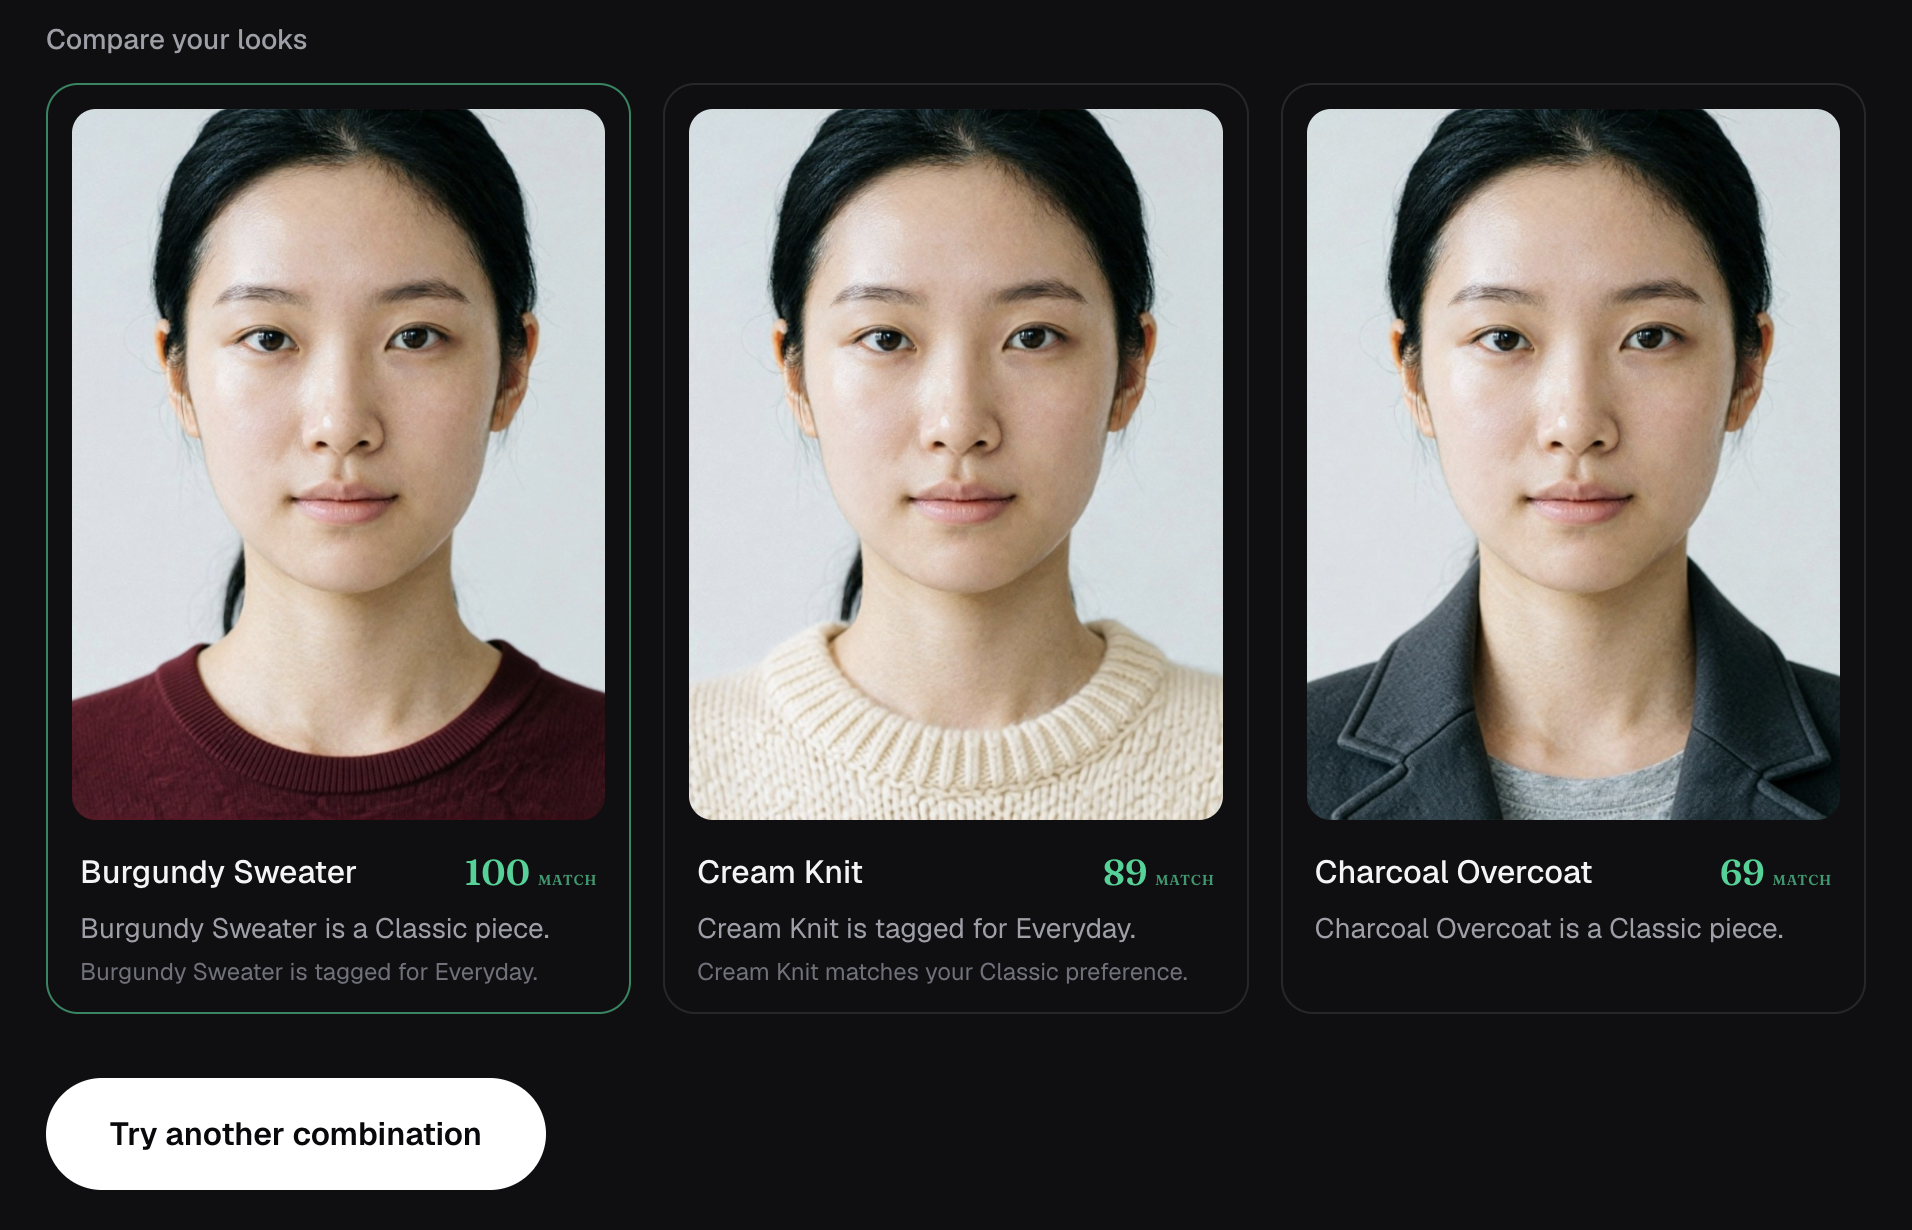
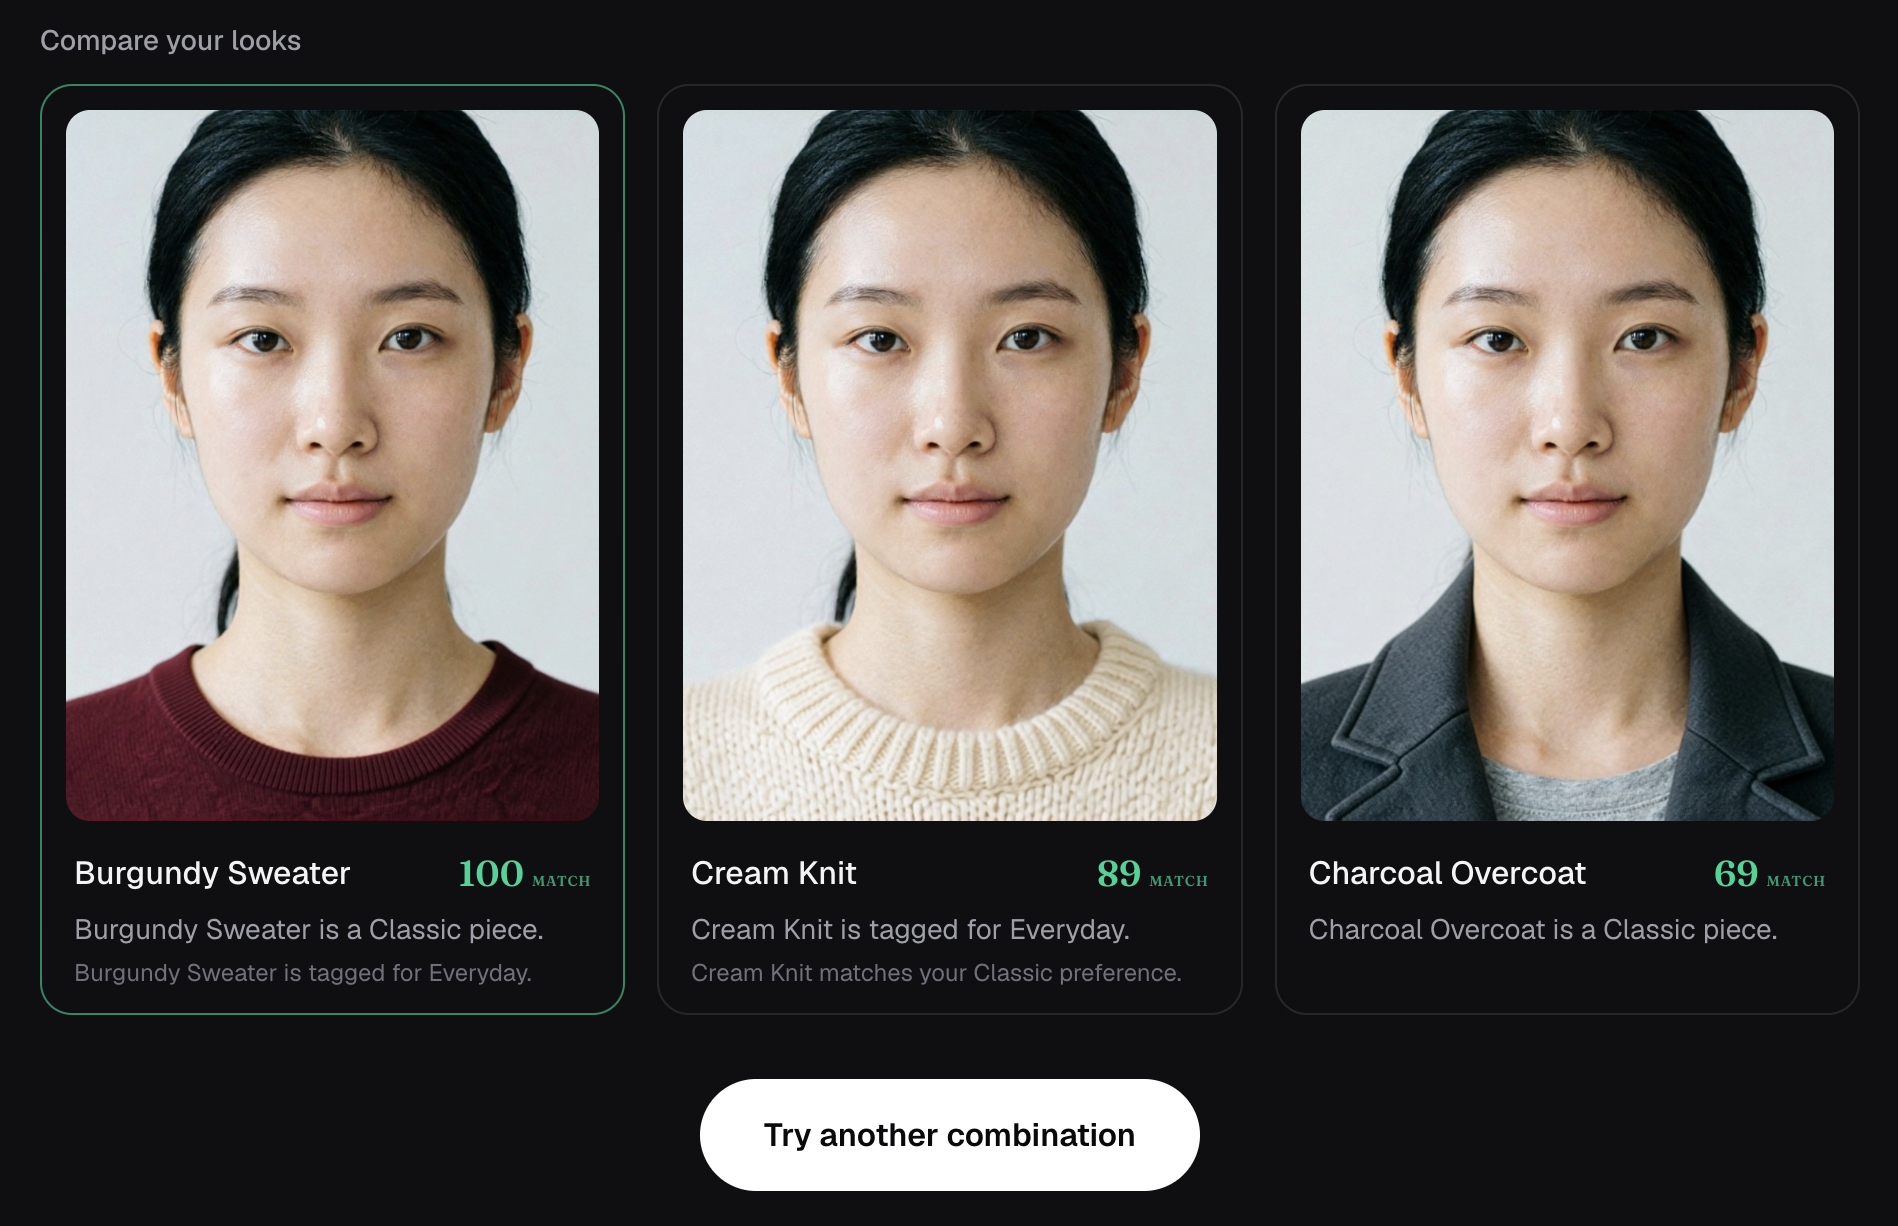
fix: center "Try another combination" button on mobile and desktop
fullWidthOnMobile={false} left it shrink-to-content with no centering,
so it sat flush left inside the block-level Look Lab section. Removed
the override (matches every other primary CTA's full-width-on-mobile
default) and wrapped it in a centered flex container so it's centered
on desktop too. Updated the Look Lab screenshot to match.

diff --git a/app/components/screens/LookLabStep.tsx b/app/components/screens/LookLabStep.tsx
@@ -314,9 +314,11 @@ export function LookLabStep({
         </div>
       )}
 
-      <PrimaryButton onClick={onReset} fullWidthOnMobile={false}>
-        Try another combination
-      </PrimaryButton>
+      <div className="flex justify-center">
+        <PrimaryButton onClick={onReset}>
+          Try another combination
+        </PrimaryButton>
+      </div>
     </section>
   );
 }
